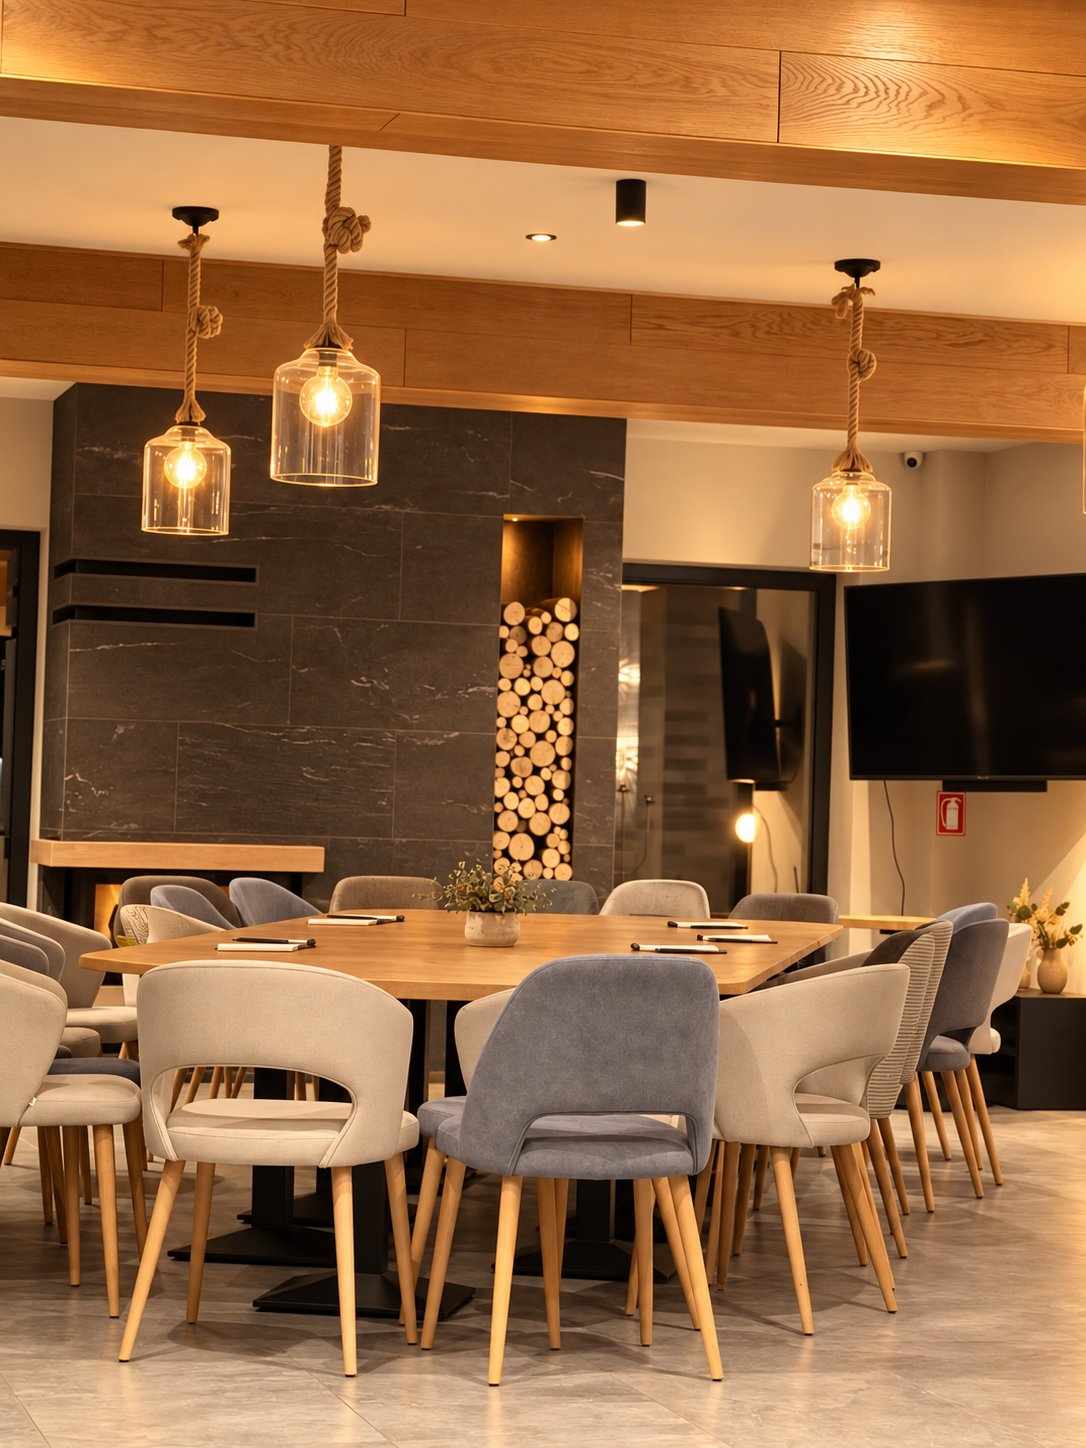
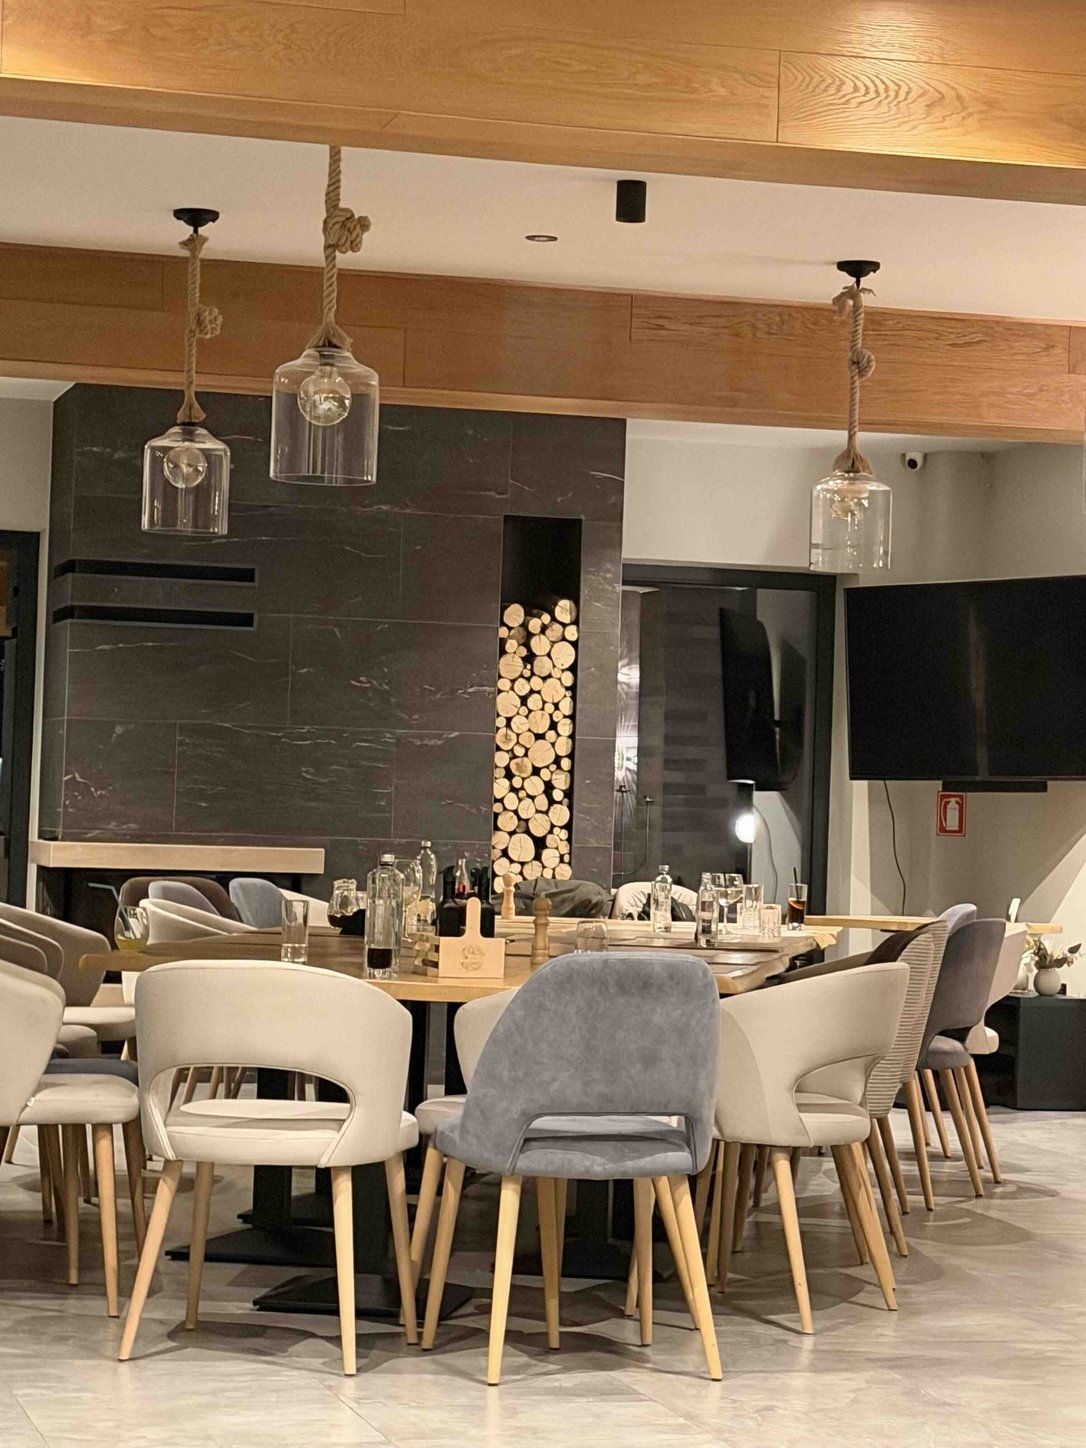
feat(retreat): elimina bara de fapte, adauga Despre noi, muta cazarea dupa mese
Bara de fapte (S2) repeta date deja spuse in hero si nu adauga informatie noua,
asa ca a fost eliminata impreuna cu FACTS din lib/retreat.ts (nu mai era folosit
in alta parte). In locul ei, chiar dupa hero, pagina deschide cu o sectiune
scurta "Despre noi" (echipa mica, un singur interlocutor de la cerere pana la
plecare), inainte de Spatii de lucru.

Configuratia cazarii (tabelul cu cele 24 de locuri) s-a mutat imediat dupa
Mesele echipei, ca sa vina firesc dupa ce cititorul stie deja ce mananca
grupul. Comentariile de sectiune (S2-S6) din page.tsx si lib/retreat.ts au
fost renumerotate ca sa reflecte noua ordine.

Poza masa-mare-living.jpg a fost inlocuita cu una noua (acelasi cadru, din
folderul de poze), recomprimata la aceeasi conventie ca restul folderului
(1086px latime, JPEG q85, EXIF-transpose).

diff --git a/app/(site)/retreat-corporate/page.tsx b/app/(site)/retreat-corporate/page.tsx
@@ -26,7 +26,6 @@ import {
   RETREAT_WHATSAPP_MESSAGE,
   RETREAT_PAGE_SOURCE,
   DRIVE_SIBIU,
-  FACTS,
   ROOM_CONFIG,
   ROOM_CONFIG_TOTAL,
   ROOM_NOTES,
@@ -146,30 +145,83 @@ export default function RetreatCorporatePage() {
         </div>
       </section>
 
-      {/* ── S2. BARA DE FAPTE ── */}
-      <section className="border-b border-line bg-sand">
-        {/* `pl-0` (reset for the <ul>'s own default list padding) must live on a
-            different element than the container's `px-` padding: both set
-            padding-left, and pl-0 was winning, zeroing only the left side and
-            leaving the page looking unpadded on that edge (right side, set by
-            padding-right, was untouched). */}
+      {/* ── S2. DESPRE NOI ── */}
+      <section className={`${container} ${sectionPad}`}>
+        <SectionHeading eyebrow="Despre noi" title="Oameni, nu doar o locație">
+          Amonte este o pensiune de familie în Valea Avrigului, la {DRIVE_SIBIU}{" "}
+          de Sibiu. Suntem o echipă mică și implicată, prezentă pe toată durata
+          șederii. De la prima discuție până la plecarea echipei, vorbiți cu un
+          singur om, nu cu trei departamente.
+        </SectionHeading>
+      </section>
+
+      {/* ── S3. SPAȚIILE DE LUCRU ── */}
+      <section className={`${sectionPad} bg-sand`}>
         <div className={container}>
-          <ul className="grid list-none grid-cols-2 gap-x-6 gap-y-5 py-7 pl-0 lg:grid-cols-6">
-            {FACTS.map((f) => (
-              <li key={f.label}>
-                <div className="font-serif text-[26px] leading-none text-forest">
-                  {f.value}
+          <SectionHeading
+            eyebrow="Spații de lucru"
+            title="Unde lucrați"
+            className="mb-[clamp(32px,4vw,48px)]"
+          />
+          <div className="grid gap-6 md:grid-cols-3">
+            {WORKSPACES.map((s) => (
+              <article key={s.title} className="flex flex-col overflow-hidden rounded-xl border border-line bg-card">
+                <PlaceholderImage
+                  src={s.photo}
+                  alt={s.alt}
+                  label={s.photoLabel}
+                  className="aspect-[4/3] w-full"
+                  sizes="(max-width: 768px) 100vw, 33vw"
+                />
+                <div className="flex flex-1 flex-col p-[clamp(18px,3vw,24px)]">
+                  <h3 className="m-0 font-serif text-[20px] font-semibold text-pine">{s.title}</h3>
+                  <p className="mt-2 mb-0 text-[14.5px] leading-relaxed text-muted">{s.body}</p>
                 </div>
-                <div className="mt-1.5 text-[13px] leading-snug text-[#33392f]">
-                  {f.label}
-                </div>
-              </li>
+              </article>
             ))}
-          </ul>
+          </div>
         </div>
       </section>
 
-      {/* ── S3. CONFIGURAȚIA CAZĂRII ── */}
+      {/* ── S4. TIMPUL LIBER ── */}
+      <section className={`${container} ${sectionPad}`}>
+        <SectionHeading
+          eyebrow="Între sesiuni"
+          title="Ce faceți între sesiuni"
+          className="mb-[clamp(32px,4vw,48px)]"
+        />
+        <div className="grid gap-5 sm:grid-cols-2 lg:grid-cols-3">
+          {LEISURE.map((s) => (
+            <article key={s.title} className="flex flex-col overflow-hidden rounded-xl border border-line bg-card">
+              <PlaceholderImage
+                src={s.photo}
+                alt={s.alt}
+                label={s.photoLabel}
+                className="aspect-[4/3] w-full"
+                sizes="(max-width: 640px) 100vw, 33vw"
+              />
+              <div className="flex flex-1 flex-col p-[clamp(16px,3vw,22px)]">
+                <h3 className="m-0 font-serif text-[19px] font-semibold text-pine">{s.title}</h3>
+                <p className="mt-2 mb-0 text-[14px] leading-relaxed text-muted">{s.body}</p>
+              </div>
+            </article>
+          ))}
+        </div>
+        <p className="mt-7 mb-0 text-[14.5px] leading-relaxed text-muted">
+          Bruno, ciobănescul de Berna al casei, e mascota locului. Animalele de
+          companie ale oaspeților rămân acasă.
+        </p>
+        <p className="mt-4 mb-0">
+          <Link href="/activitati-in-zona" className="text-[14.5px] font-semibold text-terracotta no-underline hover:underline">
+            Vezi toate activitățile din zonă →
+          </Link>
+        </p>
+      </section>
+
+      {/* ── S5. MESE (gated pe SHOW_FNB) ── */}
+      <FnbSection />
+
+      {/* ── S6. CONFIGURAȚIA CAZĂRII ── */}
       <section className={`${container} ${sectionPad}`}>
         <SectionHeading
           eyebrow="Cazarea"
@@ -242,72 +294,6 @@ export default function RetreatCorporatePage() {
           </Link>
         </p>
       </section>
-
-      {/* ── S4. SPAȚIILE DE LUCRU ── */}
-      <section className={`${sectionPad} bg-sand`}>
-        <div className={container}>
-          <SectionHeading
-            eyebrow="Spații de lucru"
-            title="Unde lucrați"
-            className="mb-[clamp(32px,4vw,48px)]"
-          />
-          <div className="grid gap-6 md:grid-cols-3">
-            {WORKSPACES.map((s) => (
-              <article key={s.title} className="flex flex-col overflow-hidden rounded-xl border border-line bg-card">
-                <PlaceholderImage
-                  src={s.photo}
-                  alt={s.alt}
-                  label={s.photoLabel}
-                  className="aspect-[4/3] w-full"
-                  sizes="(max-width: 768px) 100vw, 33vw"
-                />
-                <div className="flex flex-1 flex-col p-[clamp(18px,3vw,24px)]">
-                  <h3 className="m-0 font-serif text-[20px] font-semibold text-pine">{s.title}</h3>
-                  <p className="mt-2 mb-0 text-[14.5px] leading-relaxed text-muted">{s.body}</p>
-                </div>
-              </article>
-            ))}
-          </div>
-        </div>
-      </section>
-
-      {/* ── S5. TIMPUL LIBER ── */}
-      <section className={`${container} ${sectionPad}`}>
-        <SectionHeading
-          eyebrow="Între sesiuni"
-          title="Ce faceți între sesiuni"
-          className="mb-[clamp(32px,4vw,48px)]"
-        />
-        <div className="grid gap-5 sm:grid-cols-2 lg:grid-cols-3">
-          {LEISURE.map((s) => (
-            <article key={s.title} className="flex flex-col overflow-hidden rounded-xl border border-line bg-card">
-              <PlaceholderImage
-                src={s.photo}
-                alt={s.alt}
-                label={s.photoLabel}
-                className="aspect-[4/3] w-full"
-                sizes="(max-width: 640px) 100vw, 33vw"
-              />
-              <div className="flex flex-1 flex-col p-[clamp(16px,3vw,22px)]">
-                <h3 className="m-0 font-serif text-[19px] font-semibold text-pine">{s.title}</h3>
-                <p className="mt-2 mb-0 text-[14px] leading-relaxed text-muted">{s.body}</p>
-              </div>
-            </article>
-          ))}
-        </div>
-        <p className="mt-7 mb-0 text-[14.5px] leading-relaxed text-muted">
-          Bruno, ciobănescul de Berna al casei, e mascota locului. Animalele de
-          companie ale oaspeților rămân acasă.
-        </p>
-        <p className="mt-4 mb-0">
-          <Link href="/activitati-in-zona" className="text-[14.5px] font-semibold text-terracotta no-underline hover:underline">
-            Vezi toate activitățile din zonă →
-          </Link>
-        </p>
-      </section>
-
-      {/* ── S6. MESE (gated pe SHOW_FNB) ── */}
-      <FnbSection />
 
       {/* ── S7. AGENDĂ EXEMPLU ── */}
       <section className={`${sectionPad} bg-sand`}>

diff --git a/lib/retreat.ts b/lib/retreat.ts
@@ -21,18 +21,7 @@ export const DRIVE_SIBIU = "40 de minute";
 export const DRIVE_AIRPORT = "50 de minute";
 export const DRIVE_BRASOV = "2 ore";
 
-// ── S2. Fact bar ─────────────────────────────────────────────────────────────
-
-export const FACTS = [
-  { value: "24", label: "persoane maximum" },
-  { value: "8 + 2", label: "camere duble și studiouri" },
-  { value: "100%", label: "exclusivitate" },
-  { value: "1", label: "sală pentru grupuri" },
-  { value: "40 min", label: "de Sibiu" },
-  { value: "24 h", label: "ofertă completă, zile lucrătoare" },
-] as const;
-
-// ── S3. Room configuration ───────────────────────────────────────────────────
+// ── S6. Room configuration ───────────────────────────────────────────────────
 
 export const ROOM_CONFIG = [
   {
@@ -57,7 +46,7 @@ export const ROOM_NOTES = [
   "Fiecare unitate are balcon și baie proprie.",
 ] as const;
 
-// ── S4. Work spaces ──────────────────────────────────────────────────────────
+// ── S3. Work spaces ──────────────────────────────────────────────────────────
 
 export type Space = {
   title: string;
@@ -93,7 +82,7 @@ export const WORKSPACES: Space[] = [
   },
 ];
 
-// ── S5. Between sessions ─────────────────────────────────────────────────────
+// ── S4. Between sessions ─────────────────────────────────────────────────────
 
 export const LEISURE: Space[] = [
   {
